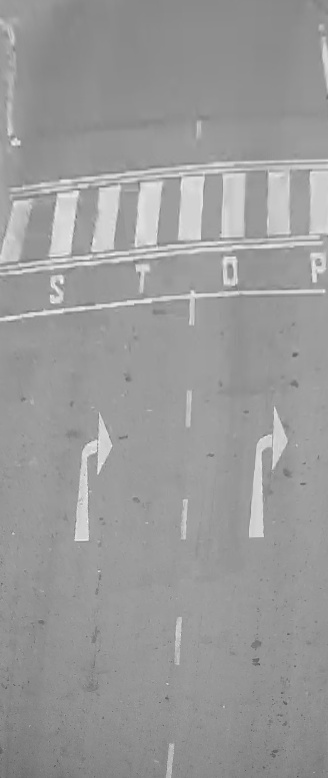
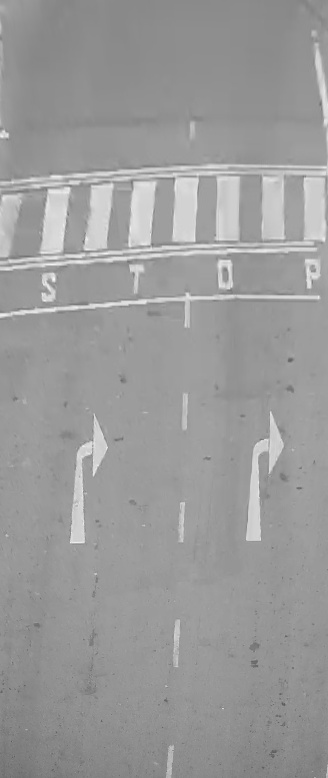
minor changes

diff --git a/1_subtask.cpp b/1_subtask.cpp
@@ -15,6 +15,7 @@ int SCREEN_WIDTH,SCREEN_HEIGHT;
 
 void mouseClick(int event, int x, int y, int flags, void* userdata){
     if (event==EVENT_LBUTTONDOWN){
+    	cout<<x<<" "<<y<<endl;
         data *image = ((data *) userdata);
         imshow("Image", image->img);
         image->points.push_back(Point2f(x,y));
@@ -61,7 +62,7 @@ int main( int argc, char** argv)
     cvtColor(im_src, grey_img, COLOR_BGR2GRAY);
 
     MatSize s = grey_img.size;
-    Size size(s[0], s[1]);
+    Size size(s[1], s[0]);
     // Mat im_projected = Mat::zeros(s, CV_8UC4);
     Mat im_projected (size, CV_8UC4);
     im_projected = 0;
@@ -75,10 +76,10 @@ int main( int argc, char** argv)
     pts_projected.push_back(Point2f(0,size.height-1));
     */
     
-    pts_projected.push_back(Point2f(472,52));
-    pts_projected.push_back(Point2f(800,52));
-    pts_projected.push_back(Point2f(800,830));
-    pts_projected.push_back(Point2f(472,830));
+    pts_projected.push_back(Point2f(772,232));
+    pts_projected.push_back(Point2f(1100,232));
+    pts_projected.push_back(Point2f(1100,1010));
+    pts_projected.push_back(Point2f(772,1010));
     
 	
     // Mouse Input
@@ -95,10 +96,10 @@ int main( int argc, char** argv)
     waitKey(0);
 	destroyAllWindows();
 	
+	
     // Projecting image
     Mat transform = findHomography(take_input.points, pts_projected);
-    //warpPerspective(grey_img, im_projected, transform, size);
-    warpPerspective(grey_img, im_projected, transform, Size(1100,900));
+    warpPerspective(grey_img, im_projected, transform, size);
     
     createWindow("Projected Image", im_projected);
     imshow("Projected Image", im_projected);
@@ -107,7 +108,7 @@ int main( int argc, char** argv)
     
     
     // Cropping image
-    Rect croppedRectangle = Rect(472,52,328,778);
+    Rect croppedRectangle = Rect(772,232,328,778);
     Mat croppedImage = im_projected(croppedRectangle);
     
     createWindow("Cropped",croppedImage);
